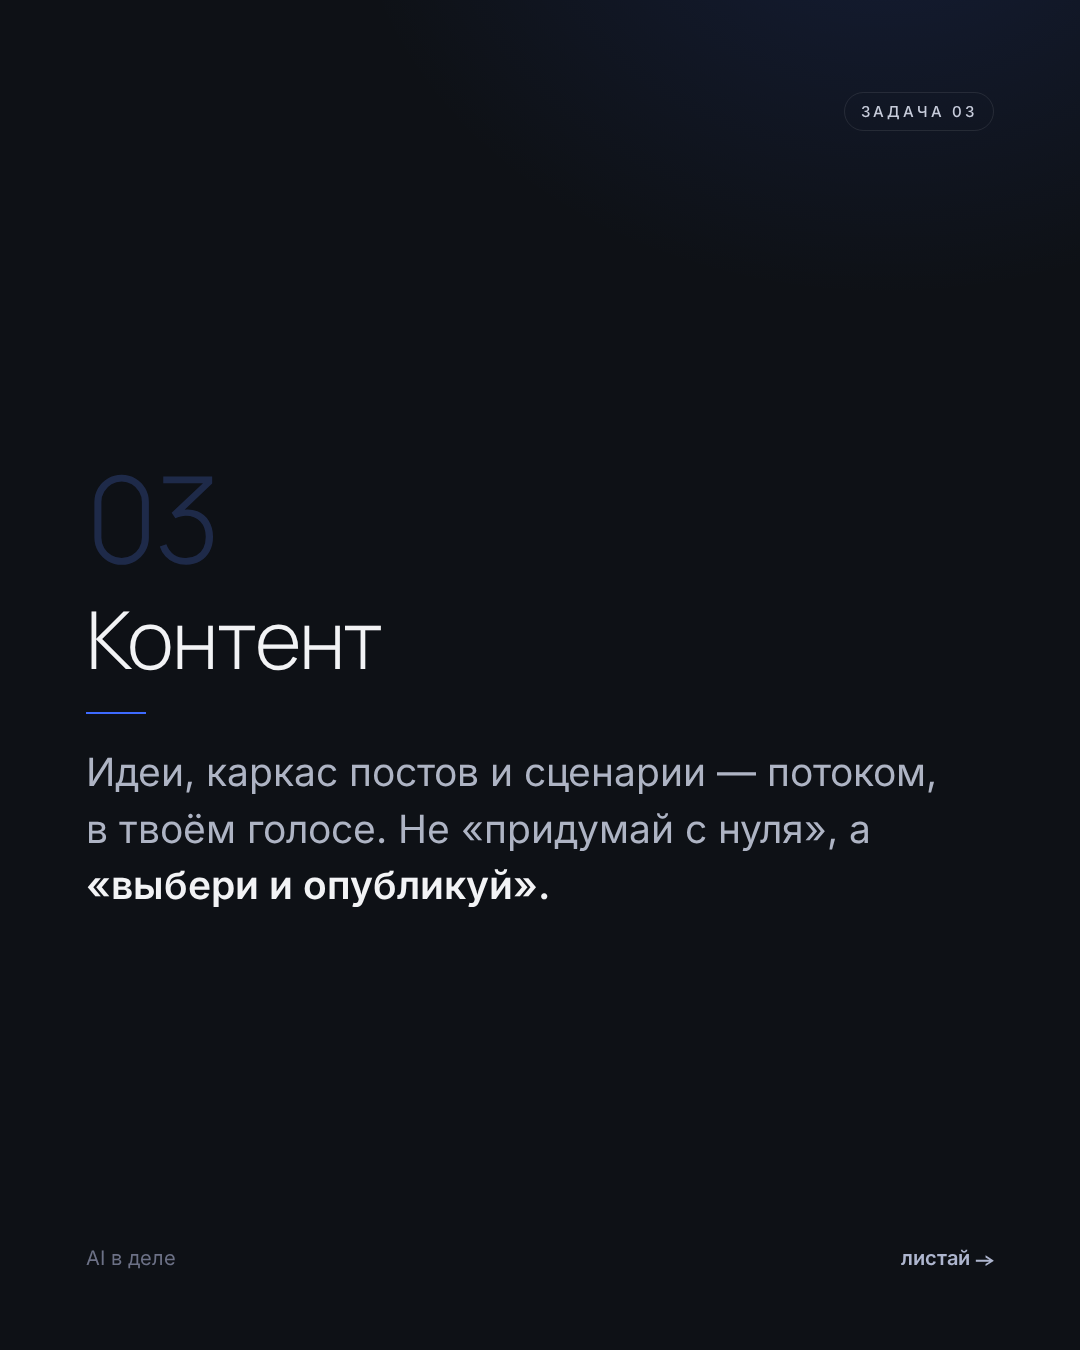
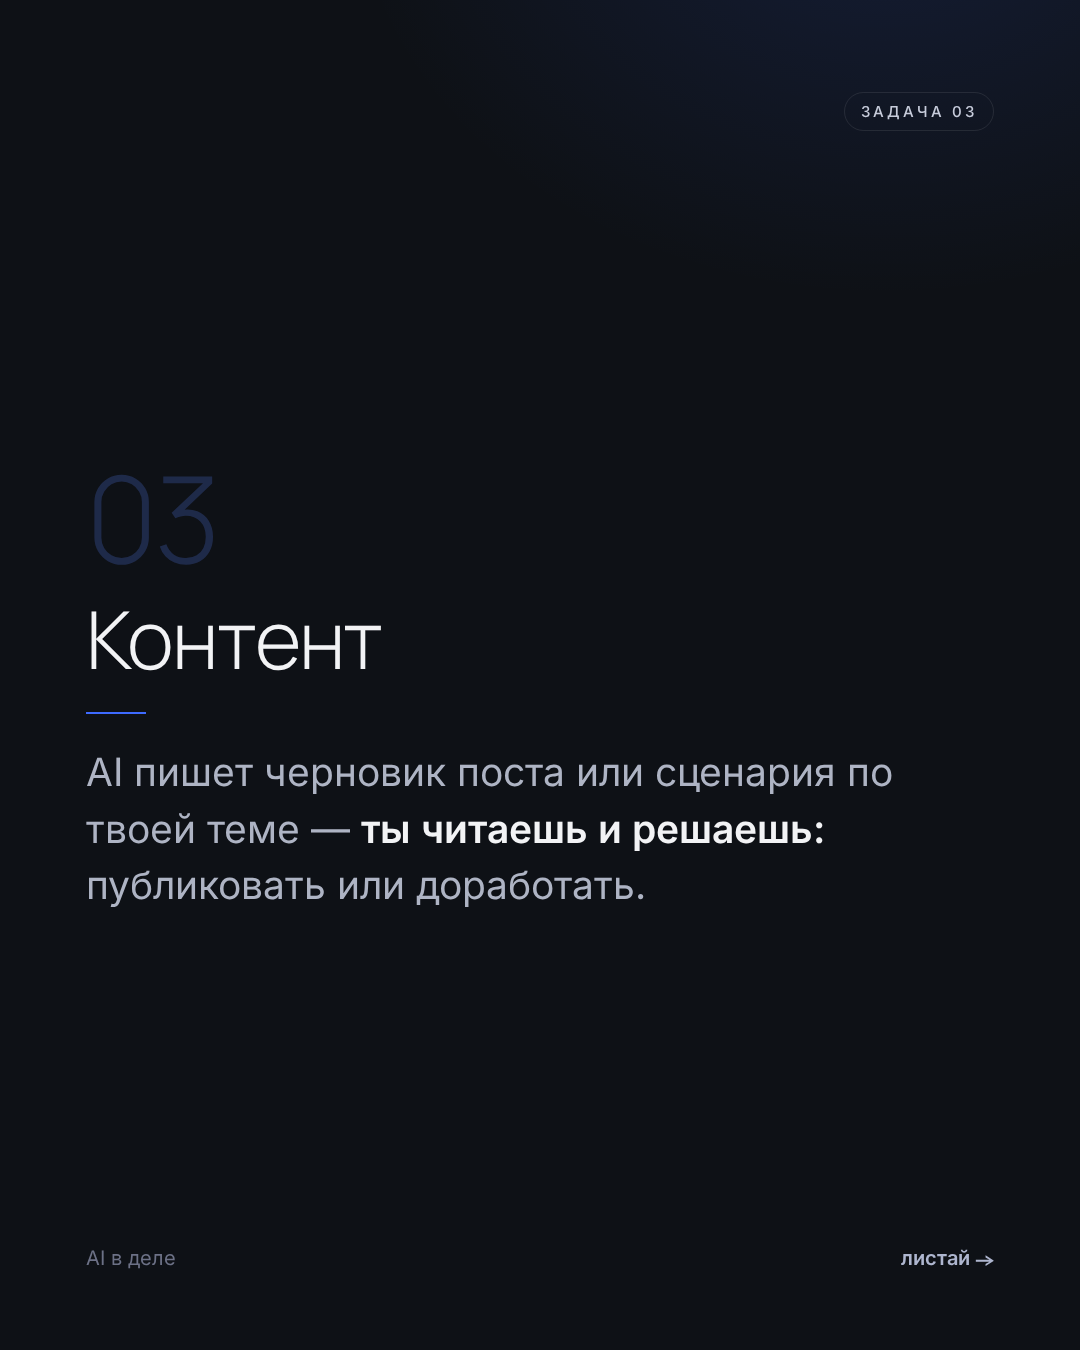
tasks5: убрано фото с финального слайда, переписан текст слайда «Контент»

Changed region(s): [[0.0611, 0.56, 0.8556, 0.6844]]

diff --git a/tasks5.html b/tasks5.html
@@ -18,6 +18,6 @@ a{color:#5b82ff}.lk{display:block;text-align:center;margin-top:18px;font-size:13
 <div id="lb" onclick="this.classList.remove('on')"><img id="li"></div>
 <script>
 const r=document.getElementById('r');
-const V='?v=20260721fix1';
+const V='?v=20260721fix2';
 for(let i=1;i<=7;i++){const p='tasks5/'+String(i).padStart(2,'0')+'.png'+V;const im=new Image();im.src=p;im.onclick=()=>{document.getElementById('li').src=p;document.getElementById('lb').classList.add('on')};r.appendChild(im);}
 </script></body></html>
